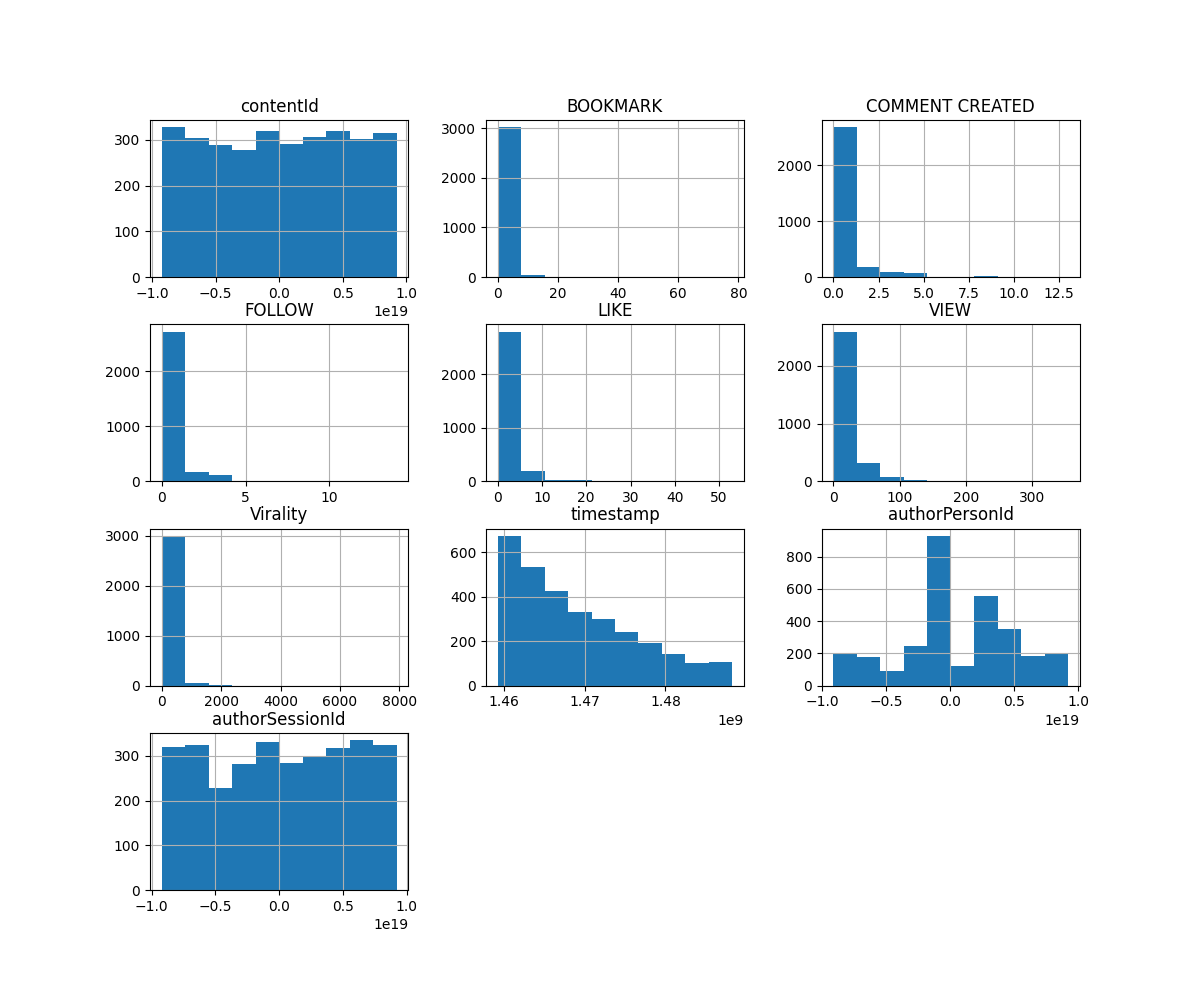
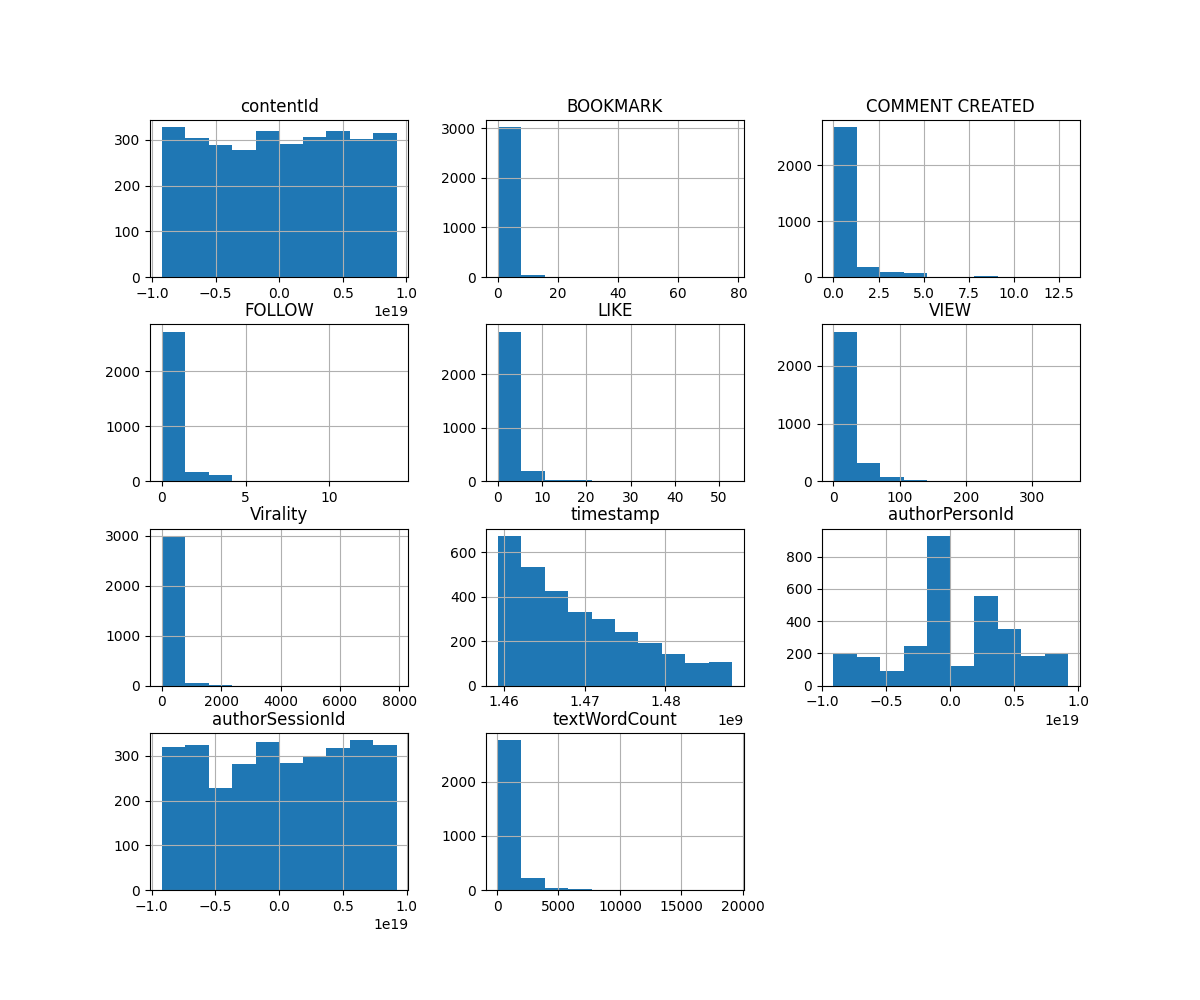
Initial data cleaning complete.

diff --git a/main.py b/main.py
@@ -36,8 +36,6 @@ def initial_data_cleaning():
 
     cols = get_cols_w_no_nans(virality_df)
     print(cols)
-    virality_df.hist(figsize=(12, 10))
-    plt.savefig('virality_hist.png')
 
     virality_df = virality_df[cols]
 
@@ -46,8 +44,12 @@ def initial_data_cleaning():
     virality_df = virality_df.drop('text', 1)
     print(virality_df)
 
+    # Histogram of features
+    virality_df.hist(figsize=(12, 10))
+    plt.savefig('virality_hist.png')
+
     # Export for future loading
-    virality_df.to_csv('virality.csv')
+    virality_df.to_csv('virality.csv', index=False)
 
 
 def get_cols_w_no_nans(df, col_type='all'):
@@ -75,9 +77,9 @@ def get_cols_w_no_nans(df, col_type='all'):
 
 def main():
     # Data Cleaning: run the first time
-    initial_data_cleaning()
+    #initial_data_cleaning()
 
-    #virality_df = pd.read_csv('virality.csv')
+    virality_df = pd.read_csv('virality.csv')
 
 
 if __name__ == '__main__':
